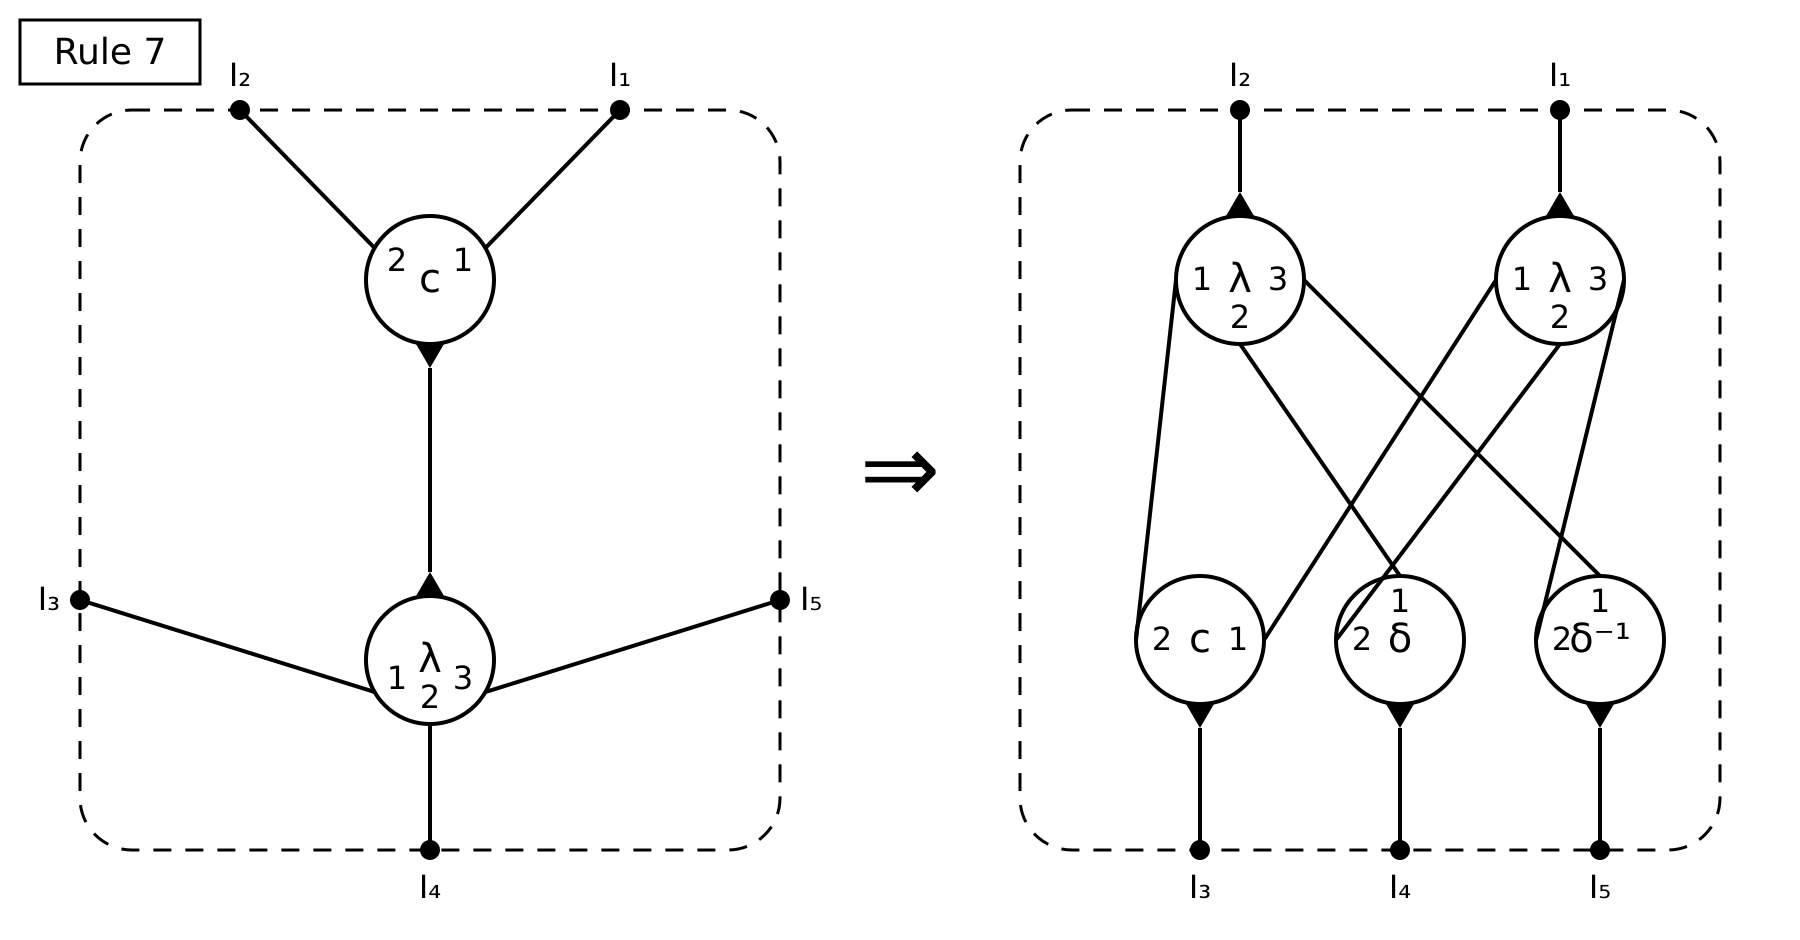
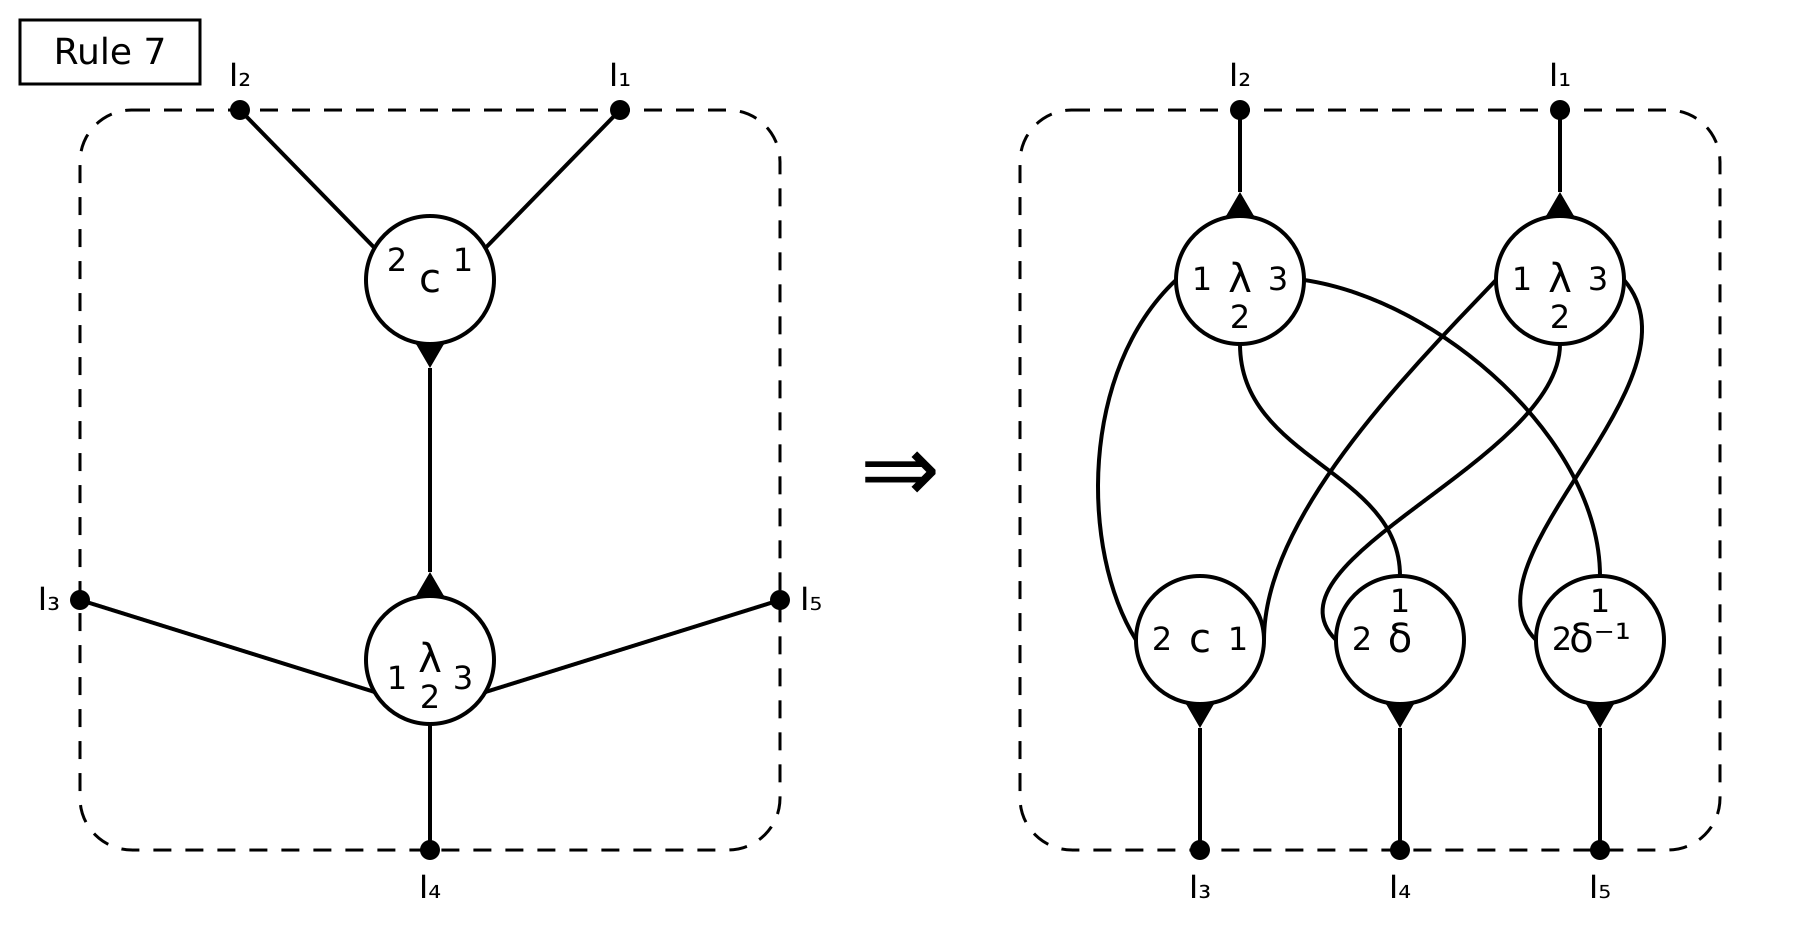
(104-S9): curved wires for RHS of rules 4, 7, 11, 14
Add cwire() cubic-Bézier helper to render.py and route the port
connections that were hard to read as straight polylines:

- Rule 4:  internal λ.1↔b.2 wire bulges left (as in the original);
           λ.2→I₁ gently curved.
- Rule 7:  all six internal wires curved — outer arcs bulge out,
           inner wires land vertically / from upper-left at their ports.
- Rule 11: long b_bot.2↔δ_top.2 diagonal curved.
- Rule 14: long δ.2↔b′_LL.1 diagonal curved.

Control points chosen so every curve keeps ≥32px clearance from all
agent circles (no wire passes through a node) and lands at a clean
angle. Pairings, port numbers and interface ports unchanged.

diff --git a/YALE_by_hands/render.py b/YALE_by_hands/render.py
@@ -94,6 +94,16 @@ def wire(pts):
     s = " ".join(f"{_f(x)},{_f(y)}" for x, y in pts)
     return f'<polyline points="{s}" fill="none" stroke="#000" stroke-width="{SW}"/>'
 
+def cwire(p0, c1, c2, p3):
+    """Curved wire: cubic Bézier from p0 to p3 with control points c1, c2.
+
+    Use for port connections where a straight line would pass through a
+    node or land at a bad angle (see RHS of rules 4, 7, 11, 14).
+    """
+    return (f'<path d="M {_f(p0[0])},{_f(p0[1])} '
+            f'C {_f(c1[0])},{_f(c1[1])} {_f(c2[0])},{_f(c2[1])} '
+            f'{_f(p3[0])},{_f(p3[1])}" fill="none" stroke="#000" stroke-width="{SW}"/>')
+
 def iface(x, y, label, dx=0, dy=0, anchor="middle"):
     """Interface dot on the subnet boundary + label."""
     return (f'<circle cx="{_f(x)}" cy="{_f(y)}" r="{DR}" fill="#000"/>\n'
@@ -195,10 +205,10 @@ def rule_04():
     a3, q3 = agent(685, 140, "λ", {1: 180, 2: 90, 3: 0}, 270)
     a4, q4 = agent(685, 330, "b", {1: 180, 2: 270, 3: 0}, 90)
     p += [a3, a4]
-    p.append(wire([q3[1], q4[2]]))                      # internal λ.1 ↔ b.2
+    p.append(cwire(q3[1], (625, 190), (685, 240), q4[2]))   # internal λ.1 ↔ b.2 (curve)
     p += [wire([q3["P"], (685, 55)]),  iface(685, 55, "I₂", dy=-12)]
     p += [wire([q3[3], (860, 140)]),   iface(860, 140, "I₆", dx=10, dy=5, anchor="start")]
-    p += [wire([q3[2], (780, 425)]),   iface(780, 425, "I₁", dy=24)]
+    p += [cwire(q3[2], (690, 260), (745, 360), (780, 425)), iface(780, 425, "I₁", dy=24)]
     p += [wire([q4[1], (510, 330)]),   iface(510, 330, "I₃", dx=-10, dy=5, anchor="end")]
     p += [wire([q4[3], (860, 330)]),   iface(860, 330, "I₅", dx=10, dy=5, anchor="start")]
     p += [wire([q4["P"], (685, 425)]), iface(685, 425, "I₄", dy=24)]
@@ -274,9 +284,14 @@ def rule_07():
     p += [wire([qc["P"], (600, 425)]), iface(600, 425, "I₃", dy=24)]
     p += [wire([qd["P"], (700, 425)]), iface(700, 425, "I₄", dy=24)]
     p += [wire([qi["P"], (800, 425)]), iface(800, 425, "I₅", dy=24)]
-    # internal wires
-    p += [wire([qt[1], qc[2]]), wire([qt[2], qd[1]]), wire([qt[3], qi[1]]),
-          wire([qr[1], qc[1]]), wire([qr[2], qd[2]]), wire([qr[3], qi[2]])]
+    # internal wires (curved: outer arcs bulge out, inner wires land
+    # vertically / horizontally at their ports)
+    p += [cwire(qt[1], (540, 185), (540, 275), qc[2]),   # λ_L.1 ↔ c.2 (left arc)
+          cwire(qt[2], (620, 230), (700, 235), qd[1]),   # λ_L.2 ↔ δ.1 (lands from above)
+          cwire(qt[3], (720, 150), (800, 220), qi[1]),   # λ_L.3 ↔ δ⁻¹.1 (lands from above)
+          cwire(qr[1], (700, 190), (632, 260), qc[1]),   # λ_R.1 ↔ c.1 (lands from above)
+          cwire(qr[2], (780, 230), (628, 280), qd[2]),   # λ_R.2 ↔ δ.2 (lands from upper-left)
+          cwire(qr[3], (855, 190), (728, 280), qi[2])]   # λ_R.3 ↔ δ⁻¹.2 (right arc)
     p.append(imply())
     return wrap("Rule 7", "\n".join(p))
 
@@ -378,7 +393,7 @@ def rule_11():
     p += [wire([qbt[2], qdt[1]]),   # b_top.2 ↔ δ_top.1
           wire([qbt[3], qdm[1]]),   # b_top.3 ↔ δ_mid.1
           wire([qbt["P"], qdm[2]]), # b_top.P ↔ δ_mid.2
-          wire([qbb[2], qdt[2]]),   # b_bot.2 ↔ δ_top.2 (long diagonal)
+          cwire(qbb[2], (700, 230), (790, 180), qdt[2]),  # b_bot.2 ↔ δ_top.2 (curve)
           wire([qbb[3], qdp[1]]),   # b_bot.3 ↔ δ′.1
           wire([qbb["P"], qdp[2]])] # b_bot.P ↔ δ′.2
     p.append(imply())
@@ -567,7 +582,7 @@ def rule_14():
     p += [wire([qcb["P"], (730, 425)]), iface(730, 425, "I₃", dy=24)]
     # internal wires
     p += [wire([qd[1], qbu[1]]),    # δ.1 ↔ b′_UL.1
-          wire([qd[2], qbl[1]]),    # δ.2 ↔ b′_LL.1
+          cwire(qd[2], (700, 190), (590, 220), qbl[1]),  # δ.2 ↔ b′_LL.1 (curve)
           wire([qbu[2], qcr[1]]),   # b′_UL.2 ↔ c_R.1
           wire([qbu[3], qcb[2]]),   # b′_UL.3 ↔ c_B.2
           wire([qbl[2], qcr[2]]),   # b′_LL.2 ↔ c_R.2
